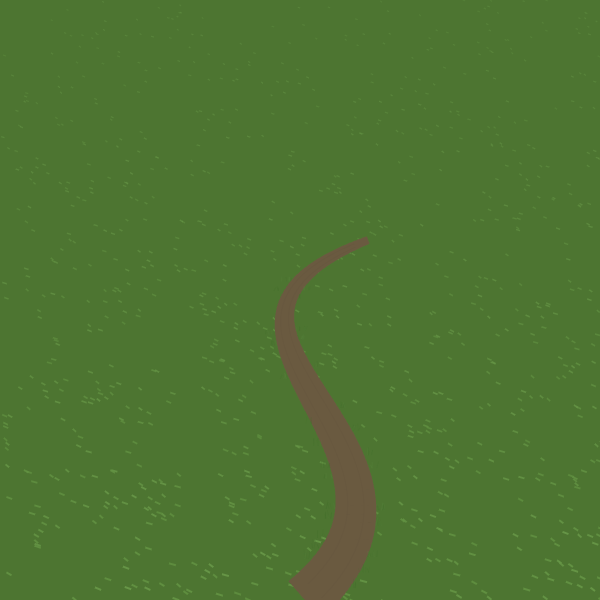
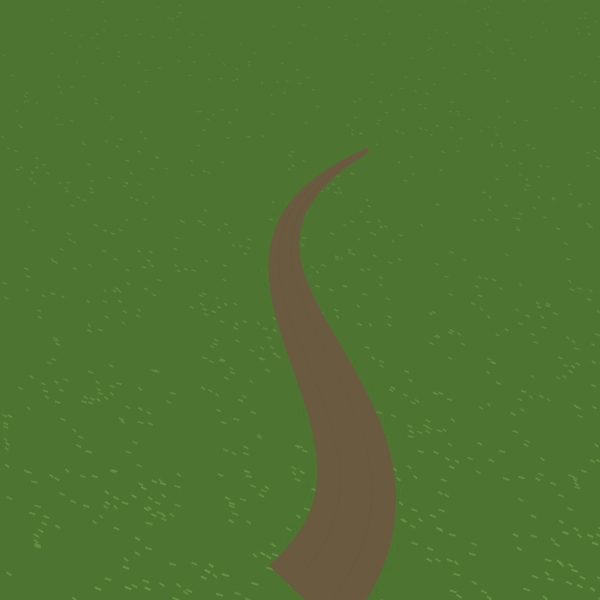
feat(path,river): extend perspective curves to horizon with wider near widths
Push far endpoints from y=0.40 to y=0.25 so paths and rivers span the
full canvas depth instead of ending as short stubs mid-field. Increase
near/far width ratio (~2x near, ~0.6x far) across all presets for
stronger perspective tapering.

Changed region(s): [[0.45, 0.24, 0.66, 1.0], [0.45, 0.72, 0.57, 0.96], [0.57, 0.39, 0.63, 0.42]]

diff --git a/src/presets/path.ts b/src/presets/path.ts
@@ -8,8 +8,8 @@ export const PATH_PRESETS: PathPreset[] = [
     description: "Worn dirt trail through natural terrain",
     tags: ["dirt", "trail", "natural", "worn"],
     pathPreset: "winding",
-    widthNear: 60,
-    widthFar: 10,
+    widthNear: 120,
+    widthFar: 6,
     surfaceColor: "#8B7355",
     surfaceStyle: "dirt",
     edgeTreatment: "grass-encroach",
@@ -22,8 +22,8 @@ export const PATH_PRESETS: PathPreset[] = [
     description: "Old cobblestone road with regular stone pattern",
     tags: ["cobblestone", "road", "stone", "old"],
     pathPreset: "straight",
-    widthNear: 100,
-    widthFar: 18,
+    widthNear: 200,
+    widthFar: 12,
     surfaceColor: "#7A7068",
     surfaceStyle: "cobblestone",
     edgeTreatment: "sharp",
@@ -36,8 +36,8 @@ export const PATH_PRESETS: PathPreset[] = [
     description: "Crunchy gravel path through a park or garden",
     tags: ["gravel", "path", "park", "garden"],
     pathPreset: "meandering",
-    widthNear: 70,
-    widthFar: 12,
+    widthNear: 140,
+    widthFar: 8,
     surfaceColor: "#9A9080",
     surfaceStyle: "gravel",
     edgeTreatment: "scattered-stones",
@@ -50,8 +50,8 @@ export const PATH_PRESETS: PathPreset[] = [
     description: "Shaded path through dense forest with encroaching vegetation",
     tags: ["forest", "shaded", "overgrown", "natural"],
     pathPreset: "winding",
-    widthNear: 50,
-    widthFar: 8,
+    widthNear: 100,
+    widthFar: 5,
     surfaceColor: "#6A5A40",
     surfaceStyle: "dirt",
     edgeTreatment: "overgrown",
@@ -64,8 +64,8 @@ export const PATH_PRESETS: PathPreset[] = [
     description: "Steep mountain trail with sharp turns",
     tags: ["mountain", "switchback", "steep", "trail"],
     pathPreset: "switchback",
-    widthNear: 45,
-    widthFar: 8,
+    widthNear: 90,
+    widthFar: 5,
     surfaceColor: "#7A6A55",
     surfaceStyle: "gravel",
     edgeTreatment: "scattered-stones",
@@ -78,8 +78,8 @@ export const PATH_PRESETS: PathPreset[] = [
     description: "Elegant flagstone walkway through a formal garden",
     tags: ["garden", "flagstone", "formal", "elegant"],
     pathPreset: "meandering",
-    widthNear: 80,
-    widthFar: 14,
+    widthNear: 160,
+    widthFar: 10,
     surfaceColor: "#8A8070",
     surfaceStyle: "flagstone",
     edgeTreatment: "sharp",
@@ -92,8 +92,8 @@ export const PATH_PRESETS: PathPreset[] = [
     description: "Sandy track through dunes or along the coast",
     tags: ["sand", "track", "dunes", "coastal"],
     pathPreset: "meandering",
-    widthNear: 65,
-    widthFar: 12,
+    widthNear: 130,
+    widthFar: 8,
     surfaceColor: "#C4A870",
     surfaceStyle: "sand",
     edgeTreatment: "grass-encroach",
@@ -106,8 +106,8 @@ export const PATH_PRESETS: PathPreset[] = [
     description: "Quiet country lane with grass growing through worn ruts",
     tags: ["country", "lane", "quiet", "rural"],
     pathPreset: "straight",
-    widthNear: 90,
-    widthFar: 16,
+    widthNear: 180,
+    widthFar: 12,
     surfaceColor: "#7A7050",
     surfaceStyle: "worn-grass",
     edgeTreatment: "grass-encroach",

diff --git a/src/presets/river.ts b/src/presets/river.ts
@@ -8,8 +8,8 @@ export const RIVER_PRESETS: RiverPreset[] = [
     description: "Narrow, calm stream winding through a meadow",
     tags: ["stream", "calm", "narrow", "meadow"],
     pathPreset: "meandering",
-    widthNear: 80,
-    widthFar: 15,
+    widthNear: 140,
+    widthFar: 8,
     waterColor: "#4A7A8A",
     bankColor: "#5C6B3A",
     rippleScale: 0.3,
@@ -25,8 +25,8 @@ export const RIVER_PRESETS: RiverPreset[] = [
     description: "Broad, powerful river flowing through a valley",
     tags: ["river", "wide", "powerful", "valley"],
     pathPreset: "meandering",
-    widthNear: 200,
-    widthFar: 40,
+    widthNear: 320,
+    widthFar: 25,
     waterColor: "#2A5060",
     bankColor: "#6B5A3A",
     rippleScale: 0.6,
@@ -42,8 +42,8 @@ export const RIVER_PRESETS: RiverPreset[] = [
     description: "Fast rocky creek tumbling down a mountainside",
     tags: ["creek", "mountain", "rocky", "fast"],
     pathPreset: "switchback",
-    widthNear: 60,
-    widthFar: 10,
+    widthNear: 100,
+    widthFar: 5,
     waterColor: "#5A8A9A",
     bankColor: "#7A7A6A",
     rippleScale: 0.8,
@@ -59,8 +59,8 @@ export const RIVER_PRESETS: RiverPreset[] = [
     description: "Slow, winding oxbow curve in flat terrain",
     tags: ["oxbow", "lazy", "winding", "flat"],
     pathPreset: "s-curve",
-    widthNear: 140,
-    widthFar: 30,
+    widthNear: 220,
+    widthFar: 18,
     waterColor: "#3A6070",
     bankColor: "#5A5030",
     rippleScale: 0.15,
@@ -76,8 +76,8 @@ export const RIVER_PRESETS: RiverPreset[] = [
     description: "Shaded brook under a forest canopy",
     tags: ["brook", "forest", "shaded", "peaceful"],
     pathPreset: "winding",
-    widthNear: 50,
-    widthFar: 8,
+    widthNear: 90,
+    widthFar: 4,
     waterColor: "#3A5A50",
     bankColor: "#4A5A30",
     rippleScale: 0.4,
@@ -93,8 +93,8 @@ export const RIVER_PRESETS: RiverPreset[] = [
     description: "Branching river delta with multiple channels",
     tags: ["delta", "branches", "channels", "flat"],
     pathPreset: "fork",
-    widthNear: 120,
-    widthFar: 25,
+    widthNear: 180,
+    widthFar: 15,
     waterColor: "#4A6A70",
     bankColor: "#6A6A50",
     rippleScale: 0.2,
@@ -110,8 +110,8 @@ export const RIVER_PRESETS: RiverPreset[] = [
     description: "Steep stream with cascading water and white rapids",
     tags: ["waterfall", "steep", "rapids", "white"],
     pathPreset: "straight",
-    widthNear: 70,
-    widthFar: 12,
+    widthNear: 120,
+    widthFar: 6,
     waterColor: "#5A9AAA",
     bankColor: "#6A6A5A",
     rippleScale: 1.0,
@@ -127,8 +127,8 @@ export const RIVER_PRESETS: RiverPreset[] = [
     description: "Wide estuary where river meets the sea",
     tags: ["estuary", "tidal", "wide", "coastal"],
     pathPreset: "straight",
-    widthNear: 250,
-    widthFar: 60,
+    widthNear: 400,
+    widthFar: 35,
     waterColor: "#3A5A6A",
     bankColor: "#7A7060",
     rippleScale: 0.5,

diff --git a/src/shared/perspective-curve.ts b/src/shared/perspective-curve.ts
@@ -99,52 +99,52 @@ export function getPathPresetCurve(preset: PathPresetType, seed: number): Bezier
   const rng = mulberry32(seed);
   const jitter = () => (rng() - 0.5) * 0.08;
 
-  // p0.y = 1.0: rivers/paths start at the bottom canvas edge so they
-  // don't appear to begin from nowhere mid-field.
-  // p3.y ~ 0.40: far endpoints converge toward horizon.
+  // p0.y = 1.0: rivers/paths start at the bottom canvas edge (wide, close).
+  // p3.y ~ 0.25: far endpoints reach toward the horizon so the path
+  // spans the full canvas depth, not just a short stub mid-field.
   switch (preset) {
     case "straight":
       return {
         p0: { x: 0.5 + jitter(), y: 1.0 },
-        p1: { x: 0.5 + jitter(), y: 0.75 },
-        p2: { x: 0.5 + jitter(), y: 0.55 },
-        p3: { x: 0.5 + jitter(), y: 0.40 },
+        p1: { x: 0.5 + jitter(), y: 0.70 },
+        p2: { x: 0.5 + jitter(), y: 0.45 },
+        p3: { x: 0.5 + jitter(), y: 0.25 },
       };
     case "meandering":
       return {
         p0: { x: 0.45 + jitter(), y: 1.0 },
-        p1: { x: 0.7 + jitter(), y: 0.75 },
-        p2: { x: 0.3 + jitter(), y: 0.55 },
-        p3: { x: 0.5 + jitter(), y: 0.40 },
+        p1: { x: 0.7 + jitter(), y: 0.70 },
+        p2: { x: 0.3 + jitter(), y: 0.45 },
+        p3: { x: 0.5 + jitter(), y: 0.25 },
       };
     case "s-curve":
       return {
         p0: { x: 0.35 + jitter(), y: 1.0 },
-        p1: { x: 0.75 + jitter(), y: 0.78 },
-        p2: { x: 0.25 + jitter(), y: 0.55 },
-        p3: { x: 0.55 + jitter(), y: 0.40 },
+        p1: { x: 0.75 + jitter(), y: 0.72 },
+        p2: { x: 0.25 + jitter(), y: 0.45 },
+        p3: { x: 0.55 + jitter(), y: 0.25 },
       };
     case "winding":
       return {
         p0: { x: 0.5 + jitter(), y: 1.0 },
-        p1: { x: 0.8 + jitter(), y: 0.75 },
-        p2: { x: 0.2 + jitter(), y: 0.55 },
-        p3: { x: 0.6 + jitter(), y: 0.40 },
+        p1: { x: 0.8 + jitter(), y: 0.70 },
+        p2: { x: 0.2 + jitter(), y: 0.45 },
+        p3: { x: 0.6 + jitter(), y: 0.25 },
       };
     case "switchback":
       return {
         p0: { x: 0.3 + jitter(), y: 1.0 },
-        p1: { x: 0.85 + jitter(), y: 0.80 },
-        p2: { x: 0.15 + jitter(), y: 0.55 },
-        p3: { x: 0.5 + jitter(), y: 0.40 },
+        p1: { x: 0.85 + jitter(), y: 0.75 },
+        p2: { x: 0.15 + jitter(), y: 0.45 },
+        p3: { x: 0.5 + jitter(), y: 0.25 },
       };
     case "fork":
       // Fork uses a single main branch — fork rendering handled by layer
       return {
         p0: { x: 0.5 + jitter(), y: 1.0 },
-        p1: { x: 0.55 + jitter(), y: 0.75 },
-        p2: { x: 0.45 + jitter(), y: 0.55 },
-        p3: { x: 0.5 + jitter(), y: 0.40 },
+        p1: { x: 0.55 + jitter(), y: 0.70 },
+        p2: { x: 0.45 + jitter(), y: 0.45 },
+        p3: { x: 0.5 + jitter(), y: 0.25 },
       };
   }
 }

diff --git a/src/layers/river.ts b/src/layers/river.ts
@@ -60,8 +60,8 @@ const RIVER_PROPERTIES: LayerPropertySchema[] = [
       { value: "fork", label: "Fork / Delta" },
     ],
   },
-  { key: "widthNear", label: "Width (Near)", type: "number", default: 80, min: 10, max: 400, step: 5, group: "shape" },
-  { key: "widthFar", label: "Width (Far)", type: "number", default: 15, min: 2, max: 100, step: 1, group: "shape" },
+  { key: "widthNear", label: "Width (Near)", type: "number", default: 140, min: 10, max: 500, step: 5, group: "shape" },
+  { key: "widthFar", label: "Width (Far)", type: "number", default: 8, min: 2, max: 100, step: 1, group: "shape" },
   { key: "waterColor", label: "Water Color", type: "color", default: "#4A7A8A", group: "colors" },
   { key: "bankColor", label: "Bank Color", type: "color", default: "#5C6B3A", group: "colors" },
   { key: "rippleScale", label: "Ripple Scale", type: "number", default: 0.3, min: 0, max: 1, step: 0.05, group: "water" },

diff --git a/src/layers/path.ts b/src/layers/path.ts
@@ -61,8 +61,8 @@ const PATH_PROPERTIES: LayerPropertySchema[] = [
       { value: "fork", label: "Fork" },
     ],
   },
-  { key: "widthNear", label: "Width (Near)", type: "number", default: 60, min: 10, max: 300, step: 5, group: "shape" },
-  { key: "widthFar", label: "Width (Far)", type: "number", default: 10, min: 2, max: 80, step: 1, group: "shape" },
+  { key: "widthNear", label: "Width (Near)", type: "number", default: 120, min: 10, max: 400, step: 5, group: "shape" },
+  { key: "widthFar", label: "Width (Far)", type: "number", default: 6, min: 2, max: 80, step: 1, group: "shape" },
   { key: "surfaceColor", label: "Surface Color", type: "color", default: "#8B7355", group: "colors" },
   {
     key: "surfaceStyle",

diff --git a/test/path.test.ts b/test/path.test.ts
@@ -44,8 +44,8 @@ describe("terrain:path", () => {
     expect(defaults.surfaceStyle).toBe("dirt");
     expect(defaults.edgeTreatment).toBe("grass-encroach");
     expect(defaults.wear).toBe(0.5);
-    expect(defaults.widthNear).toBe(60);
-    expect(defaults.widthFar).toBe(10);
+    expect(defaults.widthNear).toBe(120);
+    expect(defaults.widthFar).toBe(6);
   });
 
   it("createDefault includes depthLane property", () => {

diff --git a/test/river.test.ts b/test/river.test.ts
@@ -41,8 +41,8 @@ describe("terrain:river", () => {
     expect(defaults.preset).toBe("gentle-stream");
     expect(defaults.waterColor).toBe("#4A7A8A");
     expect(defaults.bankColor).toBe("#5C6B3A");
-    expect(defaults.widthNear).toBe(80);
-    expect(defaults.widthFar).toBe(15);
+    expect(defaults.widthNear).toBe(140);
+    expect(defaults.widthFar).toBe(8);
     expect(defaults.pathPreset).toBe("meandering");
   });
 
